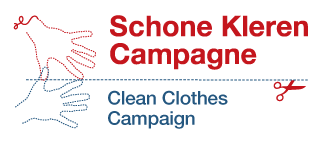
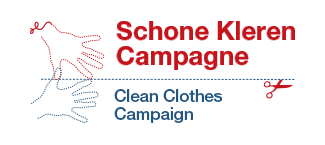
Annelies css changes

diff --git a/skc/theme/static/css/skc.css b/skc/theme/static/css/skc.css
@@ -11,9 +11,11 @@ img, img.image-left, img.image-right, .captioned img {
 {
     float: right;
     font-size: 200%;
+    font-weight: bold;
     font-family: "Lato", Arial,Helvetica,sans-serif;
     -webkit-text-stroke: 1px rgba(0,0,0,0.1);
     position: absolute; right: 1em; bottom: 25px;
+    color: #255780;
 }
 #logo
 {
@@ -60,7 +62,7 @@ div.position-1\:4 {
 
 #nav a:hover, #nav li.selected a {
     background-color: transparent;
-    color: #BDCCD9;
+    color: #a7bccc;
 }
 
 #portal-breadcrumbs
@@ -68,7 +70,7 @@ div.position-1\:4 {
     font-size: 110%;
     margin-left: 1.9em;
     margin-right: 1.5em;
-    border-bottom: 5px solid #255780;
+    border-bottom: 2px dashed #255780;
     padding-top: 1.5em;
     padding-bottom: 0.8em;
 }
@@ -99,6 +101,7 @@ div.position-1\:4 {
 .documentActions ul li i
 {
     margin-top: 3px;
+    padding: 0 0 0 0.3em;
 }
 
 .icon-white {color: white;}
@@ -116,11 +119,12 @@ div#portal-searchbox
 
 #portal-searchbox #searchGadget
 {
-    padding: 0px;
+    padding: 0 10px 0 0;
     margin: 0px;
     width: 60%;
 }
-
+.searchButton
+{   margin-top: 0.2em;}
 .LSBox {
     height: 46px;
     width: 150px;
@@ -216,8 +220,7 @@ dl.portlet li:last-child
 	font-weight: 700;
 	letter-spacing: 0;
 	font-family: "Lato", Arial,Helvetica,sans-serif;
-	-webkit-text-stroke: 1px rgba(212, 14, 22, 0.1);
-	color: #000000;
+	color: #c4161d;
 }
 
 #content h1
@@ -227,19 +230,17 @@ dl.portlet li:last-child
     font-weight: 700;
     letter-spacing: 0;
     font-family: "Lato", Arial,Helvetica,sans-serif;
-    -webkit-text-stroke: 1px rgba(212, 14, 22, 0.1);
-    color: #000000;
+    color: #c4161d;
 }
 
 #content h2
 {
-    font-size: 124%;
-    line-height: 110%;
+    font-size: 140%;
+    line-height: 170%;
     font-weight: 700;
     letter-spacing: 0;
     font-family: "Lato", Arial,Helvetica,sans-serif;
-    -webkit-text-stroke: 1px rgba(212, 14, 22, 0.05);
-    color: #000000;
+    color: #c4161d;
 }
 
 #content h3
@@ -273,8 +274,8 @@ dl.portlet li:last-child
     background: none;
     border-radius:0;
     color: black;
-    padding: 0.25em 0em;
-    border-bottom: 0.1em solid #000000;
+    padding: 0.25em 0em 0.1em;
+    border-bottom: 0.1em solid #c4161d;
 }
 #category a.link-category:hover {
     background: none;
@@ -286,11 +287,12 @@ dl.portlet li:last-child
 }
 #content h2 > a:link , #content h2 > a:visited{
     font-weight:700;
-    color: #000000;
+    color: #c4161d;
+    text-decoration:none;
 }
+
 #content h3 > a:link {font-weight:normal;}
 #content a:link, dl.portlet a:link {
-	border-bottom: 0.1em solid #000000;
 	font-weight: bold;
 	color: black;
 }
@@ -300,9 +302,9 @@ dl.portlet li:last-child
 	color: black;
 }
 #content a:hover, dl.portlet a:hover {
-    color: #666 !important;
+    color: #666 ;
 }
-
+#content h2 > a:hover{color: #D045aa;}
 #content div.newsImageContainer p.discreet {
     background-color: rgba(40, 40, 40, 0.7);
     color: White;
@@ -320,7 +322,7 @@ dl.portlet li:last-child
 }
 
 #content div.row {
-    border-bottom: 5px solid #255780;
+    border-bottom: 2px dashed #255780;
 }
 #content .tile
 {
@@ -332,7 +334,7 @@ dl.portlet li:last-child
 #content .tile img
 {
     float: left;
-    margin-right: 10px;
+    margin-right: 25px;
     margin-bottom: 5px;
 }
 
@@ -381,12 +383,17 @@ dl.portlet li:last-child
 
 #doormat #c-doormat-sitemap dl
 {
-    color: #FFFFFF;
-    width: 16%;
+    color: #A7BCCC;
+    width: 20%;
     float: left;
-    min-width: 200px;
+    min-width: 215px;
 }
-
+#doormat #c-doormat-sitemap dt
+{
+    color: #FFFFFF;
+    font-family: "Lato", Arial,Helvetica,sans-serif;
+    font-weight: 700;
+}
 p {
     line-height: 1.6em;
     margin: 0 0 1em;

diff --git a/skc/theme/static/css/style.css b/skc/theme/static/css/style.css
@@ -31,7 +31,8 @@ border-width: 0px;
 background:transparent;
 color: #ffffff;
 border-width: 0px;
-margin-top: 0.1em;
+margin: 10px 0 0 10px;
+font-size: 1.5em;
 }
 #doormat {background-color: transparent; color: #FFFFFF;
 	font-size: 130%;}
@@ -44,7 +45,7 @@ margin-top: 0.1em;
 
 #content {font-size: 100%;}
 p {line-height: 1.8em; margin: 0 0 1em 0;}
-h1, h2, h3 {margin: 0.5em 0 0.5em;}
+h1, h2, h3 {margin: 0.5em 0 1.2em 0;}
 .hidden {display: none;} 
 .clear {clear: both;}
 .pb-ajax, .pb-image, 
